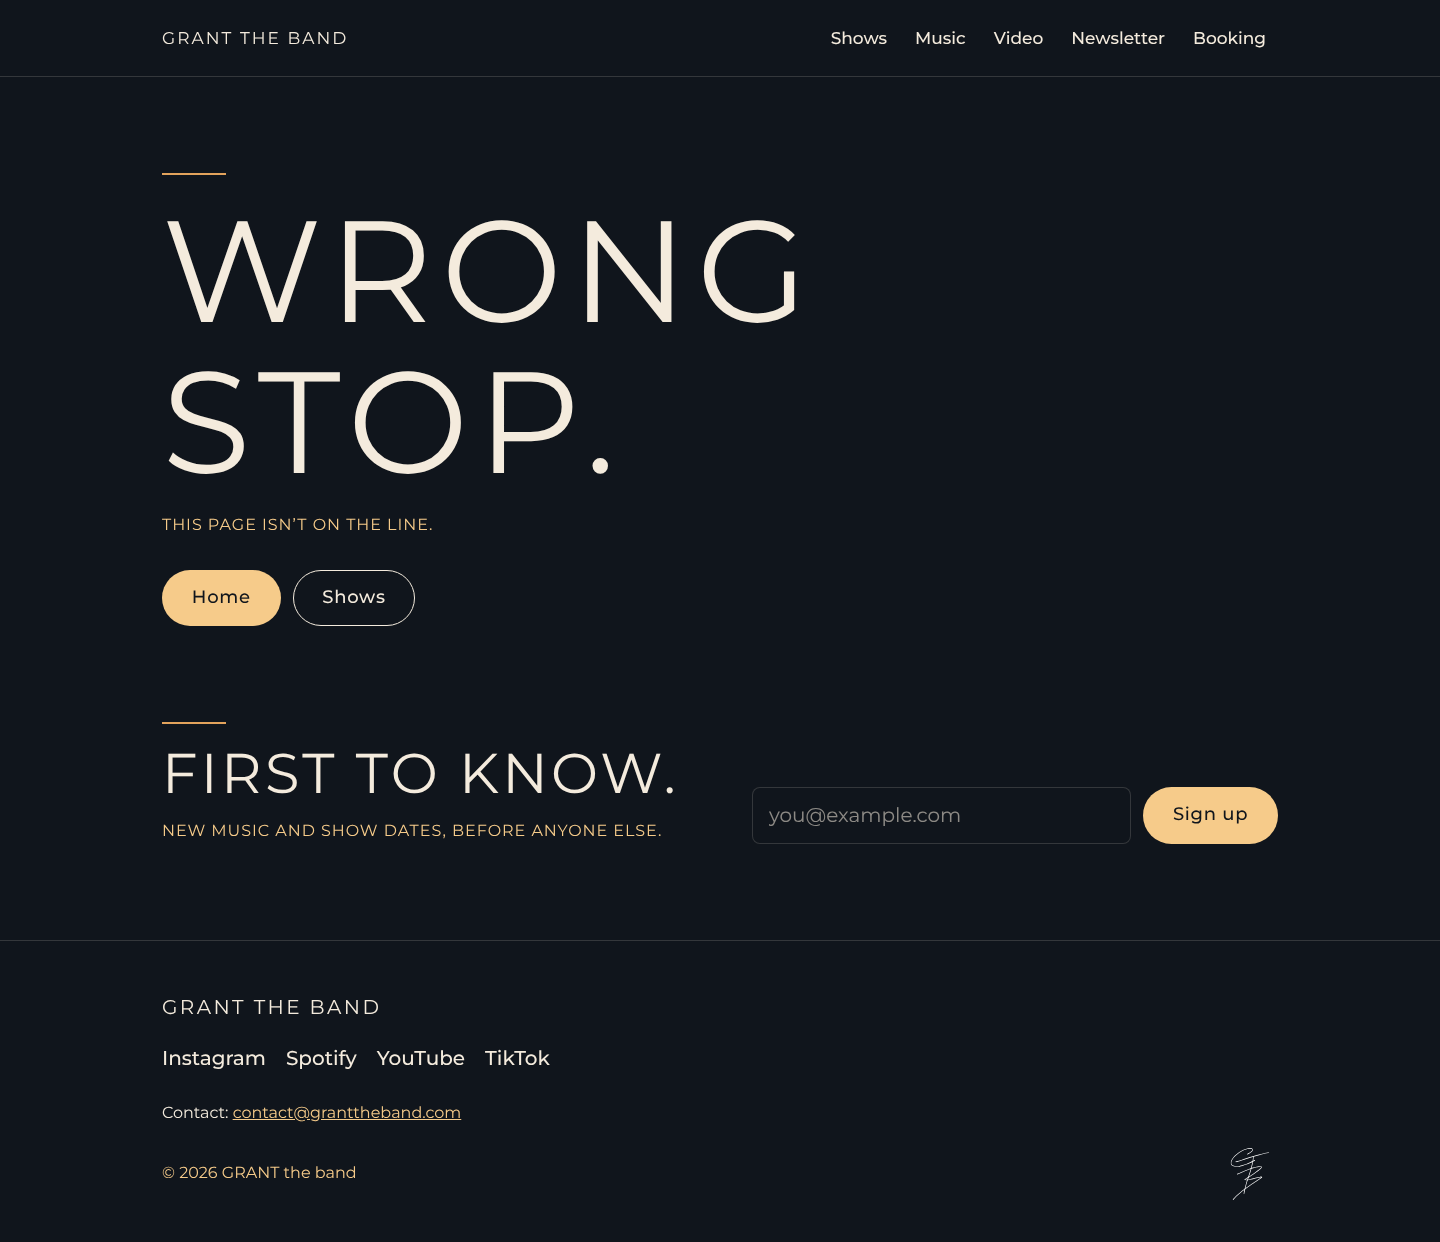
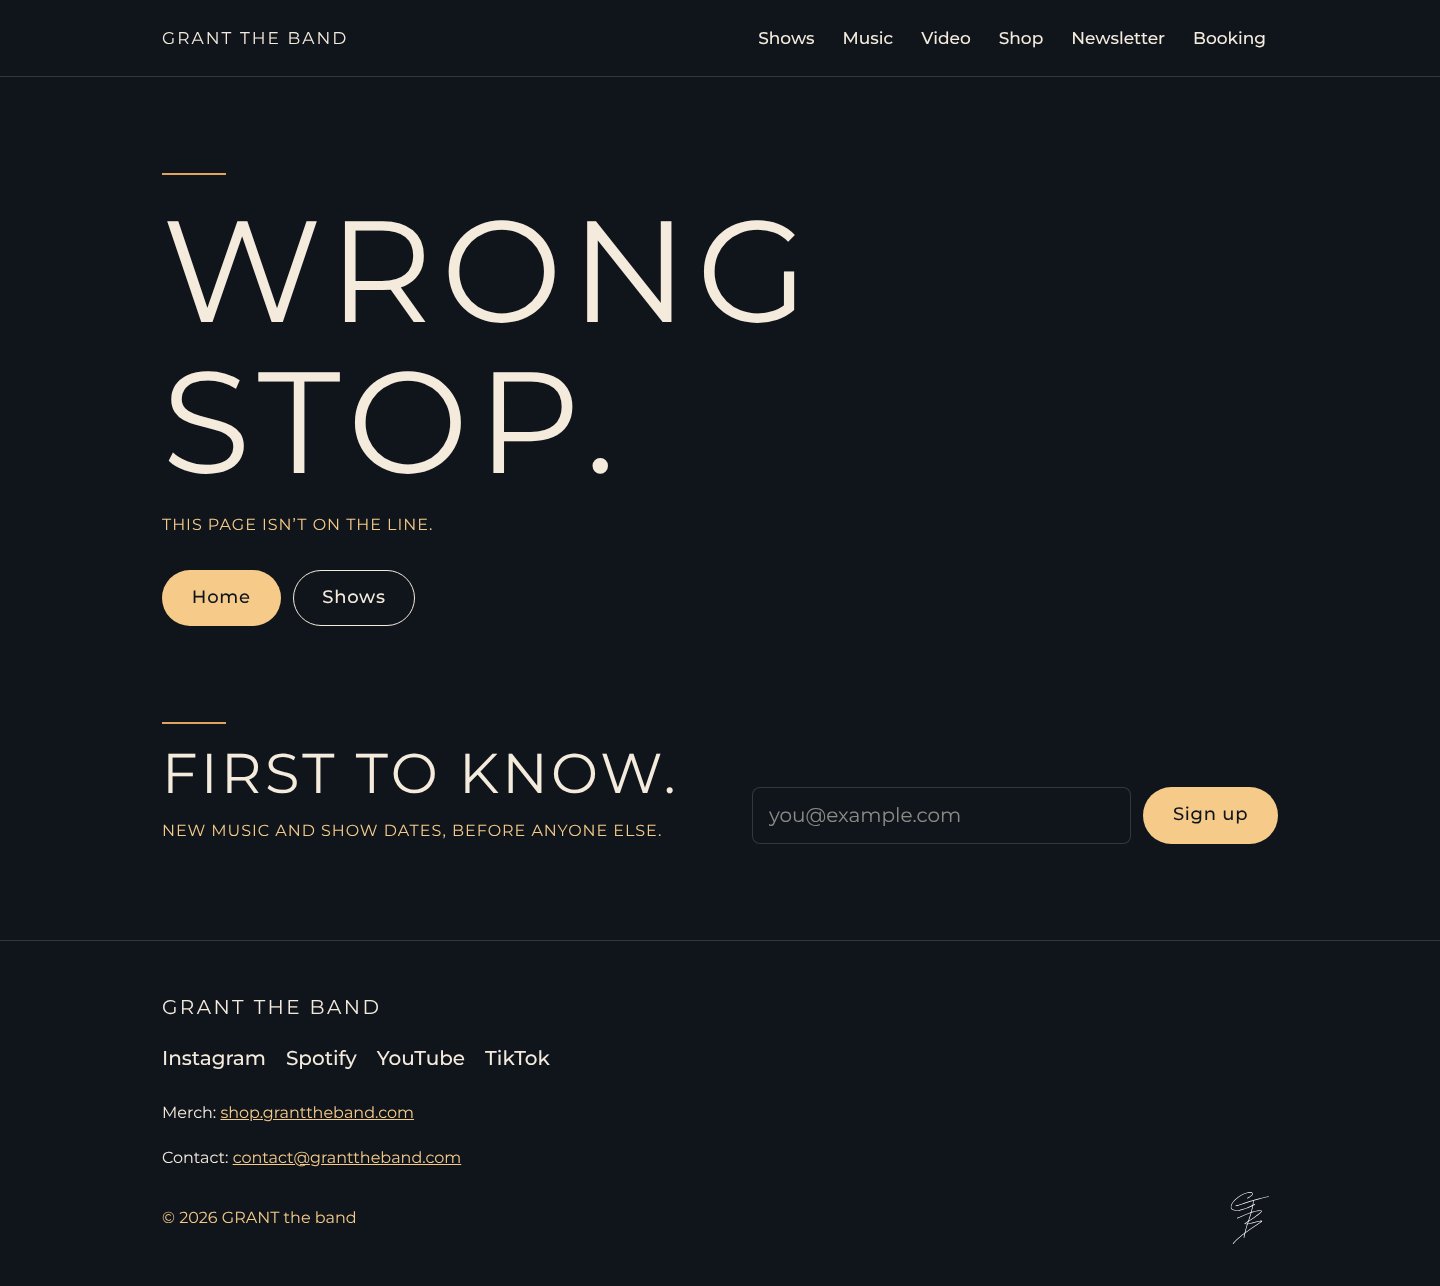
Shop link: shopUrl in site.ts, "Shop" in nav, /now "Merch" after Listen
Claude-Session: https://claude.ai/code/session_01W6jjmem6fid2ThtCrqmyVk

diff --git a/src/data/site.ts b/src/data/site.ts
@@ -13,11 +13,13 @@ export const links = {
   youtube: 'https://www.youtube.com/@GRANTtheband',
   instagram: 'https://www.instagram.com/grant_theband',
   tiktok: 'https://www.tiktok.com/@granttheband',
-  merch: 'https://shop.granttheband.com', // Shopify merch store (Printful). Nav, footer, /now
   appleMusic: 'https://music.apple.com/us/album/meroke-lane-ep/6793211371' as string | null, // the EP
   // Meroke Lane on YouTube. Falls back to the channel until there's a playlist URL.
   merokeLaneYoutube: null as string | null,
 };
+
+// Shopify merch store (Printful). Nav "Shop", footer, /now "Merch".
+export const shopUrl = 'https://shop.granttheband.com';
 
 export const bookingEmail = 'contact@granttheband.com' as string | null;
 

diff --git a/CLAUDE.md b/CLAUDE.md
@@ -133,7 +133,7 @@ Lives only in `src/components/Wordmark.astro`; set `wordmarkSvg` in `src/data/si
 
 ## Navigation (all pages)
 
-Shows (`/shows`), Music (`/#music`), Video (`/#video`), Merch (`links.merch`, https://shop.granttheband.com, the Shopify store), Newsletter (the signup on the current page, else `/#newsletter`), Booking (`/book`). Phones get a menu button. On home the header carries no wordmark; the hero logo is the headline.
+Shows (`/shows`), Music (`/#music`), Video (`/#video`), Shop (`shopUrl` in `site.ts`, https://shop.granttheband.com, the Shopify store), Newsletter (the signup on the current page, else `/#newsletter`), Booking (`/book`). Phones get a menu button. On home the header carries no wordmark; the hero logo is the headline.
 
 ## Back to top (all pages)
 
@@ -164,7 +164,7 @@ Use this copy as written. Typographic apostrophes and quotes. Never use em dashe
 5. Photo band: full-bleed band photo, no text. Hidden until the photo exists.
 6. Newsletter (`#newsletter`): title "FIRST TO KNOW.", gold line "New music and show dates, before anyone else." Email field + "Sign up". Same copy everywhere the signup appears (except the /shows empty state's inline "Get them first.").
 
-Section titles are statements, not category words. Nav labels stay Shows, Music, Video, Merch, Newsletter, Booking.
+Section titles are statements, not category words. Nav labels stay Shows, Music, Video, Shop, Newsletter, Booking.
 7. Footer (every page): small wordmark, Instagram, Spotify, YouTube, TikTok (a 2x2 grid on phones), "Merch: shop.granttheband.com" (links to the store), "Contact: contact@granttheband.com", photo credits, "© 2026 GRANT the band", GTB monogram. No location line.
 
 Not on home: venue list, press quote, booking teaser. Those live on `/book`.
@@ -201,7 +201,7 @@ Not on home: venue list, press quote, booking teaser. Those live on `/book`.
 
 ## /now
 
-Single phone-width column: a visually hidden `<h1>GRANT the band</h1>`, wordmark, gold label "MEROKE LANE · OUT EVERYWHERE", top card from now.json ("The one you just watched"; omitted on production while now.json is empty), next show row, buttons "Get show dates" (primary), "Listen to Meroke Lane" (Spotify EP), "Watch us live", "Shop merch" (store, with UTM), "Book us". Footer "Contact: contact@granttheband.com" and "granttheband.com". Meta description: "GRANT the band. The latest clip, the next show, and where to listen." No "Long Island" and no "Better in the room" on /now. Add UTM params to outbound links (utm_source=instagram&utm_medium=bio).
+Single phone-width column: a visually hidden `<h1>GRANT the band</h1>`, wordmark, gold label "MEROKE LANE · OUT EVERYWHERE", top card from now.json ("The one you just watched"; omitted on production while now.json is empty), next show row, buttons "Get show dates" (primary), "Listen to Meroke Lane" (Spotify EP), "Merch" (`shopUrl`, with UTM), "Watch us live", "Book us". Footer "Contact: contact@granttheband.com" and "granttheband.com". Meta description: "GRANT the band. The latest clip, the next show, and where to listen." No "Long Island" and no "Better in the room" on /now. Add UTM params to outbound links (utm_source=instagram&utm_medium=bio).
 
 ## Links
 
